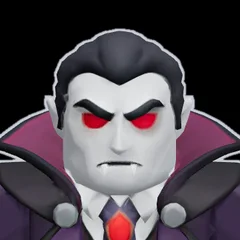
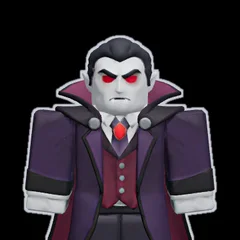
Character picker: Starscreen and Dracz pictures pulled back so their shoulders aren't cut off (render.html face view takes optional far/ty). Cache v208
Claude-Session: https://claude.ai/code/session_014MNvuNaKoBMmHJVcR3wjUS

diff --git a/tools/models/render.html b/tools/models/render.html
@@ -3,7 +3,7 @@
 <script type="module">
 import * as THREE from 'three';import {GLTFLoader} from 'three/addons/loaders/GLTFLoader.js';import {RoomEnvironment} from 'three/addons/environments/RoomEnvironment.js';
 const COL={torso:'#3b82f6',head:'#f59e0b',armL:'#ef4444',armR:'#22c55e',legL:'#a855f7',legR:'#14b8a6'};
-window.render=async({url,w,h,mode,view,bg})=>{
+window.render=async({url,w,h,mode,view,bg,far,ty})=>{
   const r=new THREE.WebGLRenderer({antialias:true,alpha:true,preserveDrawingBuffer:true});r.setSize(w,h);r.setPixelRatio(1);r.outputColorSpace=THREE.SRGBColorSpace;r.toneMapping=THREE.ACESFilmicToneMapping;r.shadowMap.enabled=true;
   document.body.innerHTML='';document.body.appendChild(r.domElement);
   const sc=new THREE.Scene();if(bg)sc.background=new THREE.Color(bg);
@@ -16,7 +16,7 @@ window.render=async({url,w,h,mode,view,bg})=>{
   const cam=new THREE.PerspectiveCamera(28,w/h,.01,100);
   const ang={front:0,side:Math.PI/2,back:Math.PI,three:-Math.PI/5,top:0}[view]??0;
   let tgt=c.clone(),dist;
-  if(view==='face'){tgt=new THREE.Vector3(c.x,box.max.y-size.y*.17,c.z);dist=size.y*.95;}else{dist=Math.max(size.y,(view==="front"?size.x:Math.hypot(size.x,size.z))*h/w)/(2*Math.tan(cam.fov*Math.PI/360))*1.12;}
+  if(view==='face'){tgt=new THREE.Vector3(c.x,box.max.y-size.y*(ty||.17),c.z);dist=size.y*.95*(far||1);}else{dist=Math.max(size.y,(view==="front"?size.x:Math.hypot(size.x,size.z))*h/w)/(2*Math.tan(cam.fov*Math.PI/360))*1.12;}
   cam.position.set(tgt.x+Math.sin(ang)*dist,tgt.y+(view==='top'?dist:size.y*.06),tgt.z+Math.cos(ang)*dist);cam.lookAt(tgt);
   r.render(sc,cam);return r.domElement.toDataURL('image/png');};
 window.ready=true;

diff --git a/sw.js b/sw.js
@@ -1,7 +1,7 @@
 /* imok 1v1 offline cache.
    The page itself is fetched fresh whenever there's a connection (so updates show up straight away) and falls back to the cached copy offline.
    Sounds, icons, three.js and fonts are served from the cache after the first visit. Music streams normally (browsers fetch it in ranges). */
-const CACHE='imok-1v1-v207';
+const CACHE='imok-1v1-v208';
 const CORE=['./','index.html','manifest.webmanifest','icons/icon-192.png','icons/icon-512.png','icons/apple-touch-icon.png',
   'chars/brute_p.webp','chars/brute_c.webp','chars/brute_k.webp','chars/jet_p.webp','chars/jet_c.webp','chars/jet_k.webp','chars/ghost_p.webp','chars/ghost_c.webp','chars/ghost_k.webp','chars/patch_p.webp','chars/patch_c.webp','chars/patch_k.webp','chars/crusty_p.webp','chars/crusty_c.webp','chars/crusty_k.webp','chars/wednesday_p.webp','chars/wednesday_c.webp','chars/wednesday_k.webp','chars/antihero_p.webp','chars/antihero_c.webp','chars/antihero_k.webp','chars/dracula_k.webp','chars/astronaut_k.webp','chars/lilpink_k.webp',
   'https://cdn.jsdelivr.net/npm/three@0.158.0/build/three.min.js'];
